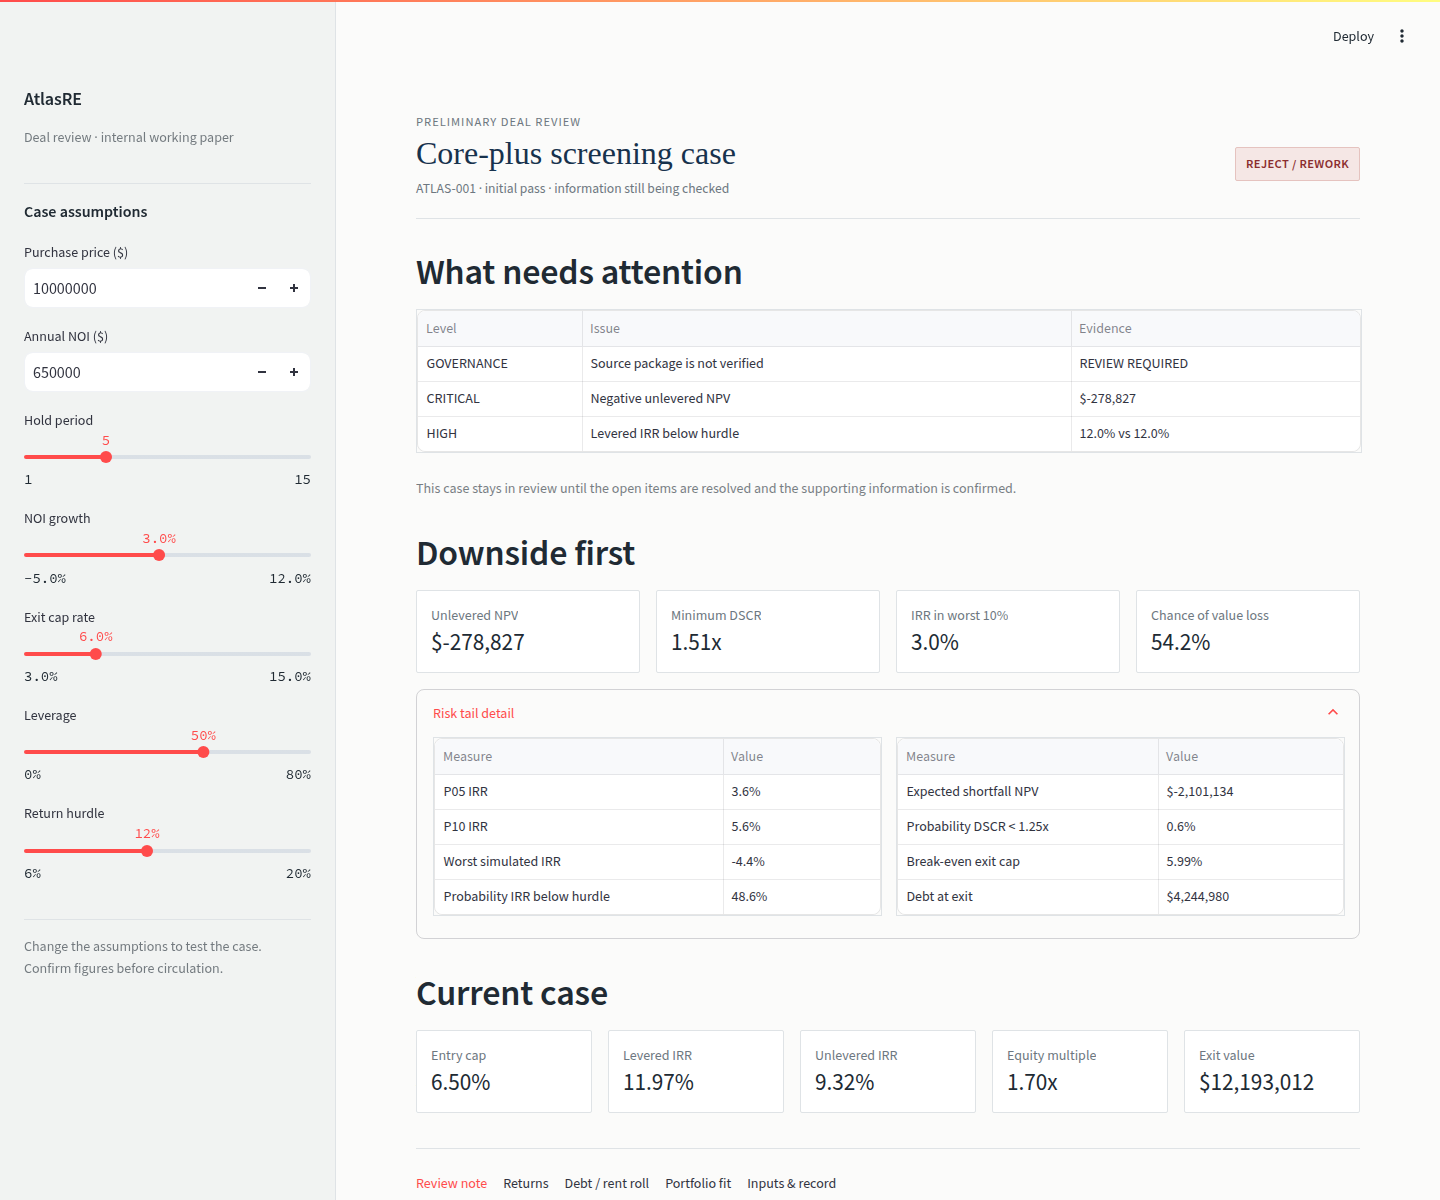
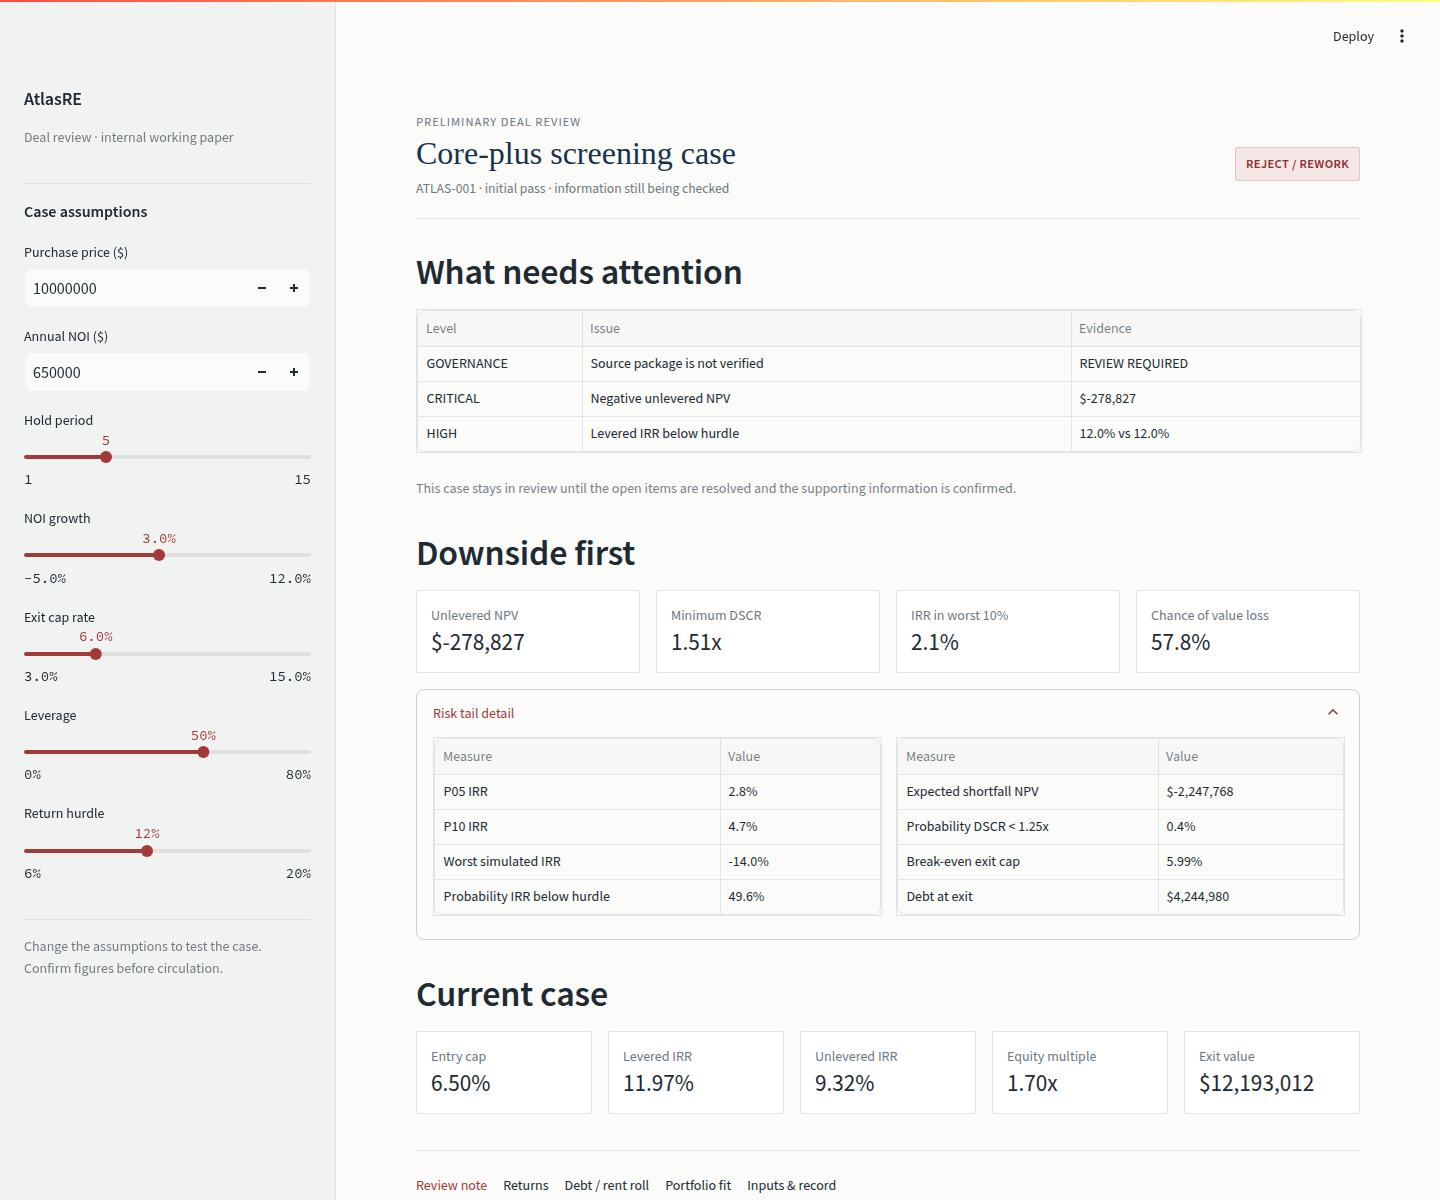
Align dashboard and package risk outputs

diff --git a/dashboard.py b/dashboard.py
@@ -3,7 +3,7 @@ from pathlib import Path
 import pandas as pd
 import streamlit as st
 
-from generate_committee_report import MODEL_VERSION, screening_package_zip
+from generate_committee_report import DEFAULT_RISK_SIMULATIONS, MODEL_VERSION, screening_package_zip
 from src.advanced_underwriting import monte_carlo_underwriting, risk_summary, stress_test
 from src.atlasre import DealInputs, rank_markets, scenario_matrix, underwrite_deal
 from src.committee_analytics import investment_committee_summary, sensitivity_table
@@ -48,13 +48,13 @@ st.markdown(
 
 @st.cache_data(show_spinner=False)
 def run_risk_case(deal: DealInputs, hurdle: float) -> tuple[pd.DataFrame, dict[str, float]]:
-    simulations = monte_carlo_underwriting(deal, simulations=500, seed=42)
+    simulations = monte_carlo_underwriting(deal, simulations=DEFAULT_RISK_SIMULATIONS, seed=42)
     return simulations, risk_summary(simulations, hurdle)
 
 
 @st.cache_data(show_spinner=False)
 def build_download(deal: DealInputs, hurdle_rate: float) -> bytes:
-    return screening_package_zip(deal, simulations=1_000, hurdle_rate=hurdle_rate)
+    return screening_package_zip(deal, simulations=DEFAULT_RISK_SIMULATIONS, hurdle_rate=hurdle_rate)
 
 
 @st.cache_data(show_spinner=False)
@@ -64,7 +64,7 @@ def build_excel_download(deal: DealInputs, hurdle_rate: float) -> bytes:
 
 def review_package_key(deal: DealInputs, hurdle_rate: float) -> str:
     """Identify the complete current package input set for the session cache."""
-    return repr((deal, hurdle_rate, MODEL_VERSION, 1_000))
+    return repr((deal, hurdle_rate, MODEL_VERSION, DEFAULT_RISK_SIMULATIONS))
 
 
 with st.sidebar:
@@ -170,7 +170,7 @@ with tab_screen:
         st.markdown("### Working files")
         st.caption(
             "The ZIP contains the review memo, assumptions, stress cases, risk summary, Excel reconciliation workbook, "
-            "rent-roll reference files, and a monthly development schedule. It uses 1,000 seeded downside simulations."
+            "rent-roll reference files, and a monthly development schedule. It uses 5,000 seeded downside simulations, matching the CLI package."
         )
         package_key = review_package_key(base_deal, hurdle)
         if st.session_state.get("review_package_key") not in {None, package_key}:

diff --git a/scripts/capture_screenshots.py b/scripts/capture_screenshots.py
@@ -11,6 +11,11 @@ OUTPUT = ROOT / "docs" / "images"
 OUTPUT.mkdir(parents=True, exist_ok=True)
 
 
+def wait_for_idle(page) -> None:
+    """Allow Streamlit's run-status indicator to disappear before taking evidence."""
+    page.wait_for_timeout(3_000)
+
+
 def capture() -> None:
     """Capture the default illustrative dashboard and its generated working files."""
     with sync_playwright() as playwright:
@@ -22,26 +27,27 @@ def capture() -> None:
         page = browser.new_page(viewport={"width": 1440, "height": 1200}, device_scale_factor=1)
         page.goto(BASE_URL, wait_until="networkidle", timeout=60_000)
         page.get_by_role("heading", name="Downside first").wait_for(timeout=60_000)
+        wait_for_idle(page)
         page.screenshot(path=OUTPUT / "decision-summary.png", full_page=False)
 
         risk_detail = page.get_by_text("Risk tail detail")
         risk_detail.click()
         risk_detail.scroll_into_view_if_needed()
-        page.wait_for_timeout(300)
+        wait_for_idle(page)
         page.screenshot(path=OUTPUT / "downside-risk.png", full_page=False)
 
         package_heading = page.get_by_text("Working files")
         package_heading.scroll_into_view_if_needed()
         page.get_by_role("button", name="Prepare review files").click()
         page.get_by_text("Review files ready").wait_for(timeout=60_000)
-        page.wait_for_timeout(300)
+        wait_for_idle(page)
         page.screenshot(path=OUTPUT / "review-package.png", full_page=False)
 
         preview = page.get_by_text("Preview review memo")
         preview.click()
         memo_title = page.get_by_role("heading", name="Investment Committee Screening Memo — Core-plus screening case")
         memo_title.evaluate("element => element.scrollIntoView({block: 'start'})")
-        page.wait_for_timeout(300)
+        wait_for_idle(page)
         page.screenshot(path=OUTPUT / "review-memo.png", full_page=False)
         browser.close()
 

diff --git a/tests/test_screening_package.py b/tests/test_screening_package.py
@@ -1,7 +1,9 @@
+import json
 from io import BytesIO
 from zipfile import ZipFile
 
-from generate_committee_report import build_screening_package, screening_package_zip
+from generate_committee_report import DEFAULT_RISK_SIMULATIONS, build_screening_package, screening_package_zip
+from src.advanced_underwriting import monte_carlo_underwriting, risk_summary
 from src.atlasre import DealInputs
 
 
@@ -41,6 +43,17 @@ def test_screening_package_zip_is_readable():
     assert "monthly_development_model.csv" in names
     assert "lease_summary.csv" in names
     assert "excel_reconciliation.xlsx" in names
+
+
+def test_dashboard_and_cli_default_risk_numbers_match():
+    deal = DealInputs(10_000_000, 650_000, hold_years=5, leverage=.5)
+    dashboard_risk = risk_summary(
+        monte_carlo_underwriting(deal, simulations=DEFAULT_RISK_SIMULATIONS, seed=42),
+        hurdle_rate=.12,
+    )
+    cli_files = build_screening_package(deal, simulations=DEFAULT_RISK_SIMULATIONS)
+    cli_risk = json.loads(cli_files["risk_summary.json"])
+    assert dashboard_risk == cli_risk
 
 
 def test_verified_without_evidence_is_review_required_throughout_package():

diff --git a/generate_committee_report.py b/generate_committee_report.py
@@ -25,6 +25,7 @@ from src.lease import (
 from src.reconciliation import build_reconciliation_workbook
 
 MODEL_VERSION = "deterministic-core-v0.10"
+DEFAULT_RISK_SIMULATIONS = 5000
 
 
 def _assumption_values(deal: DealInputs, lease_inputs: LeaseUnderwritingInputs | None) -> dict[str, tuple[object, str]]:
@@ -67,7 +68,7 @@ def build_screening_package(
     source_status: str = "REVIEW REQUIRED",
     verified_by: str | None = None,
     source_reference: str | None = None,
-    simulations: int = 5000,
+    simulations: int = DEFAULT_RISK_SIMULATIONS,
     lease_inputs: LeaseUnderwritingInputs | None = None,
     model_version: str = MODEL_VERSION,
     hurdle_rate: float = 0.12,
@@ -268,7 +269,7 @@ def screening_package_zip(
     source_status: str = "REVIEW REQUIRED",
     verified_by: str | None = None,
     source_reference: str | None = None,
-    simulations: int = 5000,
+    simulations: int = DEFAULT_RISK_SIMULATIONS,
     lease_inputs: LeaseUnderwritingInputs | None = None,
     model_version: str = MODEL_VERSION,
     hurdle_rate: float = 0.12,

diff --git a/docs/IMPLEMENTATION_REPORT.md b/docs/IMPLEMENTATION_REPORT.md
@@ -8,7 +8,7 @@ The default visual case is explicitly **ILLUSTRATIVE** and remains `REVIEW REQUI
 
 ## Package performance
 
-The pre-change default `python generate_committee_report.py` run took **86.66 seconds**. The final default run took **1.95 seconds**, a measured **44.4x** reduction. The dashboard configuration used by **Prepare review files** runs 1,000 seeded simulations and took **0.73 seconds** in a direct measurement.
+The pre-change default `python generate_committee_report.py` run took **86.66 seconds**. The final default run took **1.95 seconds**, a measured **44.4x** reduction. The dashboard configuration used by **Prepare review files** now runs the same 5,000 seeded simulations as the CLI and took **1.14 seconds** in a direct measurement.
 
 The default CLI package still uses 5,000 simulations with seed 42. The optimization did not lower that count. It batches the shared rate-grid calculation across simulations and uses the existing scalar root solver only to refine each scenario's first identified root. The regression suite locks the prior default risk-summary values, preserving the seeded default result contract.
 
@@ -54,7 +54,7 @@ The clean-room check cloned `review-fixes`, created a new virtual environment, i
 
 No deployment URL was added because no deployment exists yet; the previous placeholder was removed. The app was not deployed because deployment was explicitly reserved for the repository owner. The package does not claim to replace Excel, ARGUS, source documents, financial-model review, legal or tax diligence, or committee judgment. No real deals, clients, testimonials, benchmark claims, awards, or live market data were introduced.
 
-The default CLI simulation count was not reduced. The dashboard's already-separated 1,000-simulation package mode is labeled in the interface; the default CLI package remains 5,000 seeded simulations. The model still has its documented simplifications, including no complete operating statement, tax, capex, refinance, full capital stack, or source-document ingestion model.
+The default dashboard and CLI simulation counts now match at 5,000 seeded simulations. A regression test compares the dashboard-equivalent risk summary with the CLI package's `risk_summary.json` for the default case. The model still has its documented simplifications, including no complete operating statement, tax, capex, refinance, full capital stack, or source-document ingestion model.
 
 ## References
 

diff --git a/docs/REVIEWER_GUIDE.md b/docs/REVIEWER_GUIDE.md
@@ -26,7 +26,7 @@ A reviewer should first confirm that the source status is appropriate. The defau
 
 The core model treats supplied annual NOI as **year-one NOI**. It grows NOI from year two onward. Exit value equals final-year NOI divided by exit cap rate, and selling cost is a percentage of exit value. Acquisition cost is a percentage of purchase price. Debt is one monthly amortizing loan; the outstanding balance at the end of the hold is deducted from final-year levered cash flow. Unlevered NPV includes the period-zero acquisition cash flow. Equity multiple divides all positive levered distributions by all negative levered contributions.
 
-The package uses a seeded Monte Carlo simulation with seed 42. The random input generation, clipping bounds, simulation count, and first-root IRR convention are deterministic. The default report uses 5,000 simulations. The dashboard review-file download uses 1,000 simulations and labels that count in its working-files panel.
+The package uses a seeded Monte Carlo simulation with seed 42. The random input generation, clipping bounds, simulation count, and first-root IRR convention are deterministic. The default report and dashboard review-file download both use 5,000 simulations. A regression test compares the dashboard-equivalent risk summary with the CLI package's serialized `risk_summary.json` for the default case.
 
 ## Known gaps
 

diff --git a/DEPLOY.md b/DEPLOY.md
@@ -28,7 +28,7 @@ The dashboard reads its bundled market-input CSV using a path resolved from `das
 
 `requirements.txt` contains the runtime dependencies, including `openpyxl` for the reconciliation workbook. Community Cloud recognizes a root-level `requirements.txt` for pip installation. [3] `requirements.lock` remains the exact local and CI installation record; it is not the Community Cloud dependency declaration.
 
-The dashboard begins with a 500-simulation seeded risk summary and does not create the 1,000-simulation review ZIP until a user selects **Prepare review files**. This keeps initial rendering independent of report generation. The 5,000-simulation CLI package is intended for local or CI evidence generation, not first-page load. No system package is required, so `packages.txt` is intentionally absent.
+The dashboard and CLI both use 5,000 seeded simulations with seed 42. The dashboard computes its risk summary on first load and creates the same 5,000-simulation review ZIP when a user selects **Prepare review files**. No system package is required, so `packages.txt` is intentionally absent.
 
 ## Smoke test after deployment
 

diff --git a/README.md b/README.md
@@ -18,7 +18,9 @@ source .venv/bin/activate
 python -m pip install -r requirements.lock && streamlit run dashboard.py
 ```
 
-Open the local URL printed by Streamlit. Change an assumption, inspect the downside flags, select **Prepare review files**, and download the ZIP or formula-based Excel reconciliation workbook. Every bundled input and output remains **ILLUSTRATIVE**.
+Open the local URL printed by Streamlit. Change an assumption, inspect the downside flags, select **Prepare review files**, and download the ZIP or formula-based Excel reconciliation workbook. Every bundled input and output remains **ILLUSTRATIVE**. The dashboard and CLI review package both use 5,000 seeded downside simulations.
+
+**Live demo:** Not deployed yet. Follow [DEPLOY.md](DEPLOY.md) to deploy the dashboard from GitHub.
 
 ## What the decision output looks like
 
